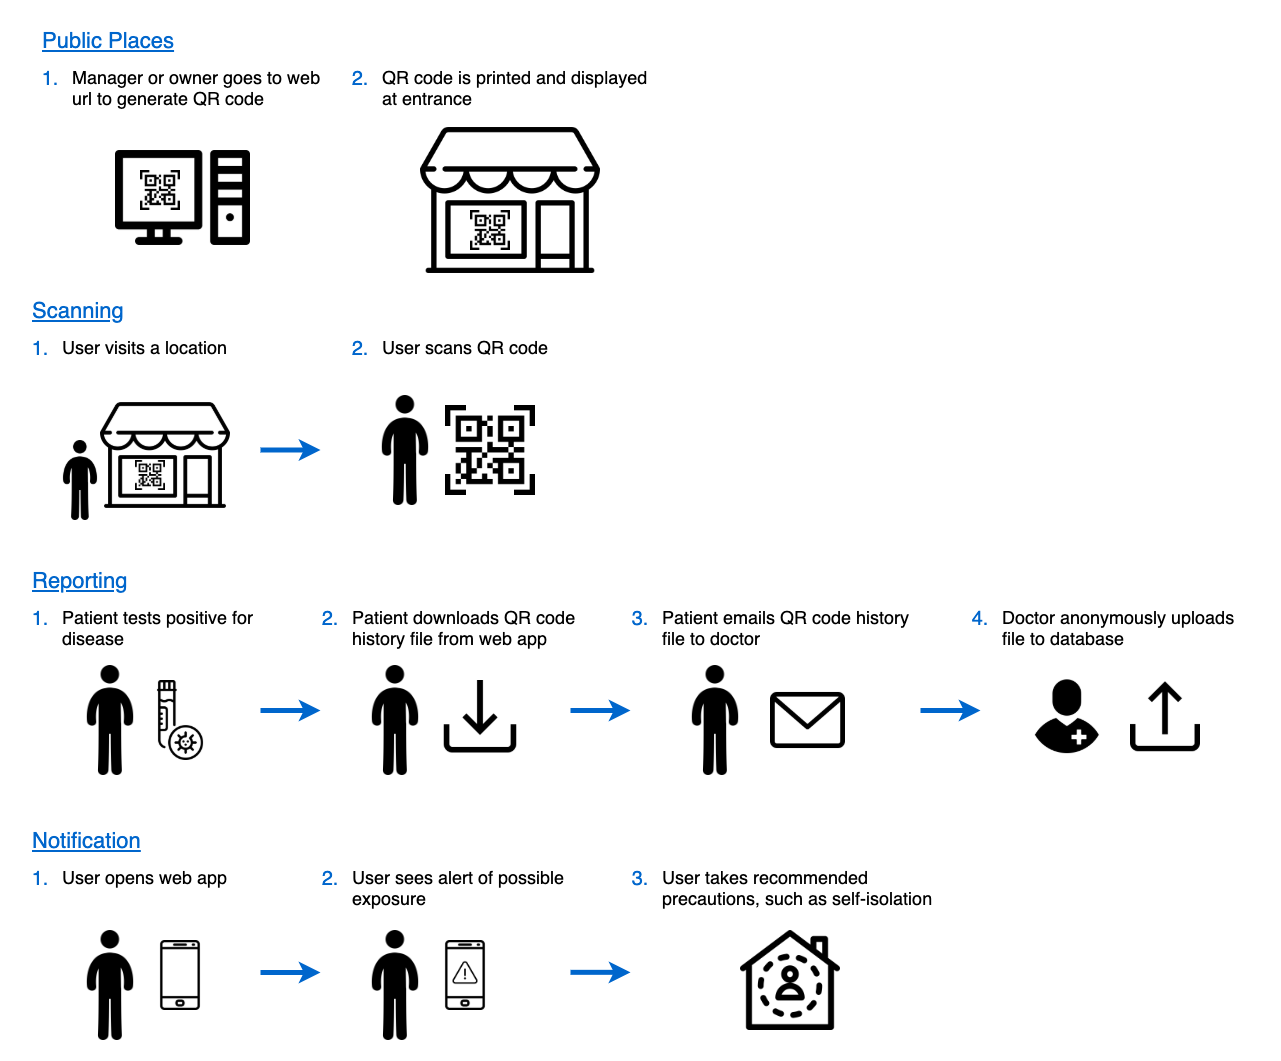
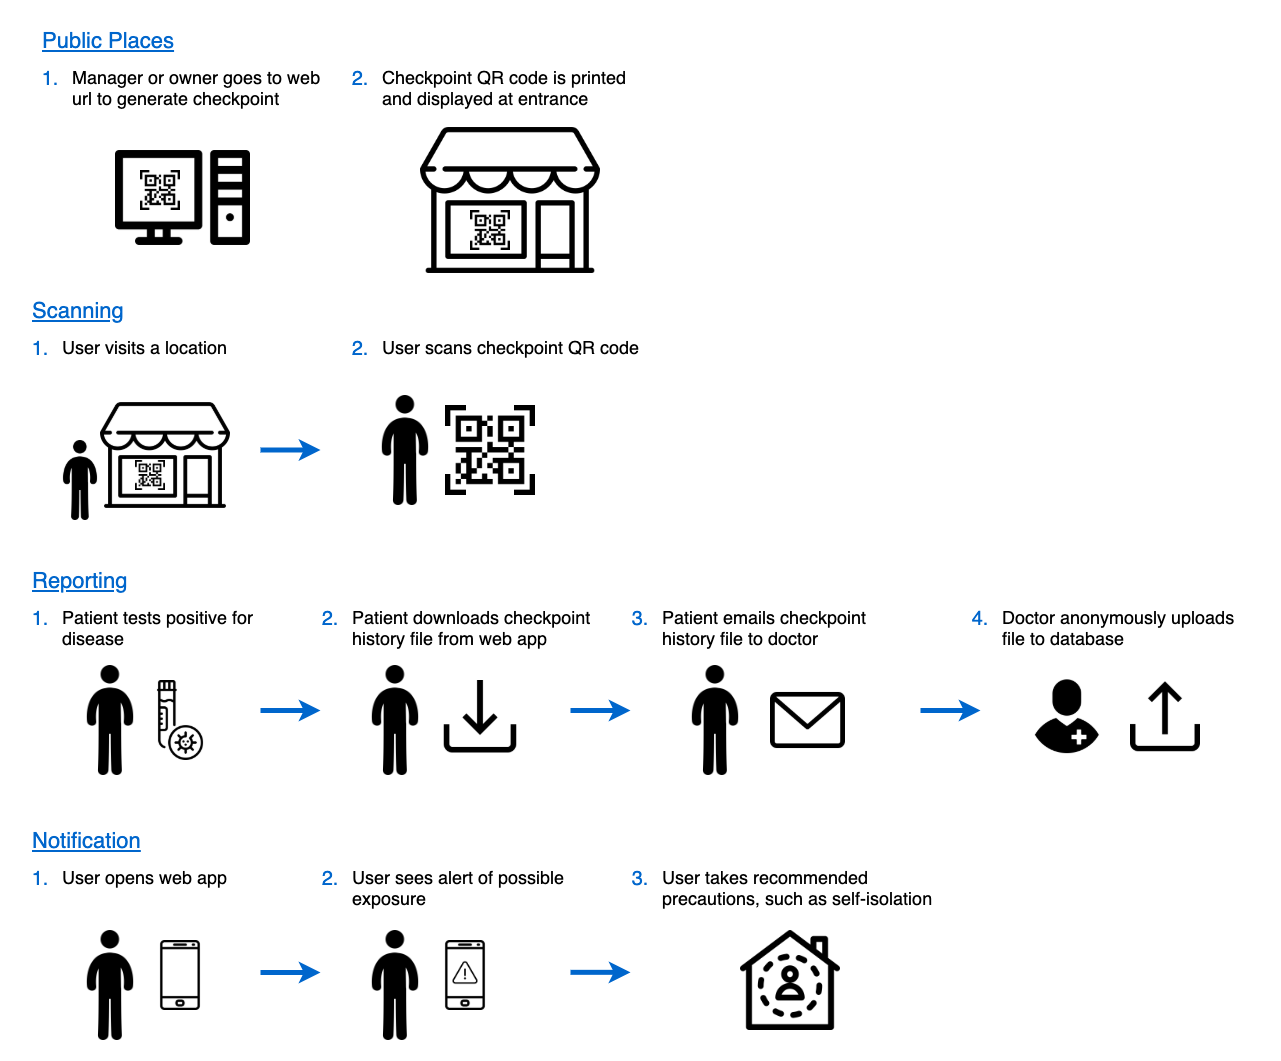
Update readme

diff --git a/README.md b/README.md
@@ -6,15 +6,37 @@ QR Code-Based Contact Tracing for Communities
 
 This is an open source project which is provided freely to communities which are interested in setting up digital contact tracing to supplement manual contact tracing in a way that is both easy to use and preserves privacy.
 
-Here I present a plan for setting up QR code-based contact tracing in your community or jurisdiction, with all of the source code necessary for this to happen. This approach can potentially add an additional layer of protection as public places begin reopening. Manual contact tracing in public places is very difficult, if not impossible in many cases. Our approach can help to notify people of potential exposure at these public places in a way that does not invade their privacy.
-
-If you are interested, I am happy to collaborate as needed to make this a reality in your community. I'm not looking for anything in return other than to see privacy-preserving digital contact be implemented.
-
-![flyer](doc/qr-contact-tracing-flyer.png)
+Here we present a strategy for setting up QR code-based contact tracing in your community or jurisdiction, with all of the source code necessary for this to happen. This approach can potentially add an additional layer of protection as public places begin reopening. Manual contact tracing in public places is very difficult, if not impossible in many cases. Our approach can help to notify people of potential exposure at these public places in a way that does not invade their privacy.
 
 ## User flow diagram
 
 ![user flow diagram](doc/user-flow.png)
+
+## How to set up in your community
+
+![community setup](doc/qr-contact-tracing-flyer.png)
+
+## FAQ
+
+### 1. How do I download the app?
+
+This is a "web app", rather than a native app. That means it's just a website you can view on your phone. So, there is nothing to download. You can see a demo at https://demo.trackcovid.net.
+
+### 2. Where is the data stored?
+
+When a user scans a checkpoint on their phone, the data is stored *only on that phone*. When a COVID-positive patient downloads their checkpoint history file and shares this with their doctor, the data will be uploaded to an online database and stored there.
+
+### 3. How long is the data stored?
+
+When setting up the project, whoever is in charge of the project will need to decide *how far back in time to notify people of potential exposures*. For example, in the demo app, this is set to 7 days. All checkpoints that are older than this amount of time are considered "expired". Expired checkpoints are continuously deleted, both from users' phones and from the online database.
+
+### 4. What is in the checkpoint history file?
+
+The checkpoint history file is just a list of checkpoints (random sequences of letters and numbers), each with an associated timestamp. It contains all checkpoints that the user has scanned up to a certain point in the past (the amount of time which has been configured as described in Q #3, e.g. 7 days in the demo app). It contains no data about the user.
+
+### 5. How are users notified of potential exposure?
+
+Users must check their status through the web app. If a potential exposure has been found, an alert will be displayed prominently at the top of the screen. Users may open the web app at any time to check their status, and they will also see their status the next time they go to a public place and scan a QR code.
 
 ## Server setup instructions
 
